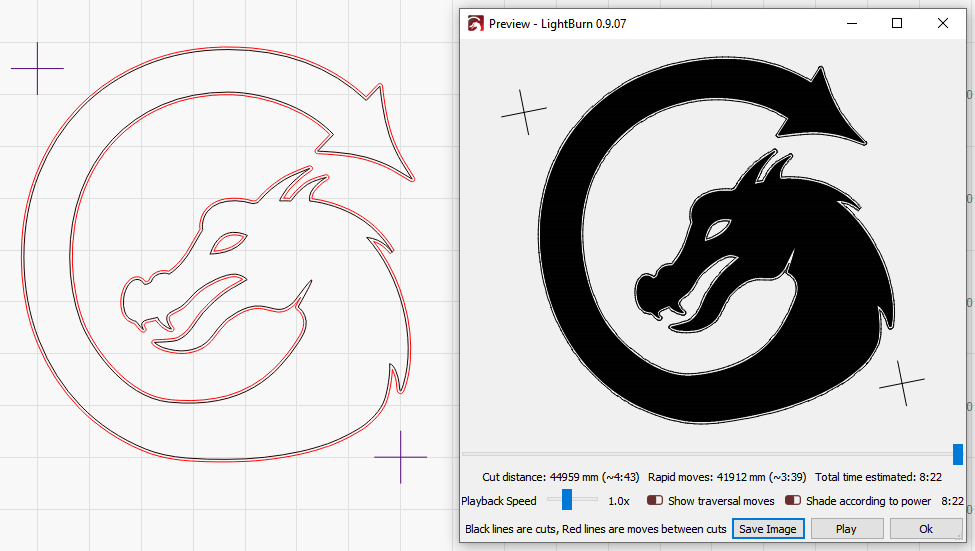
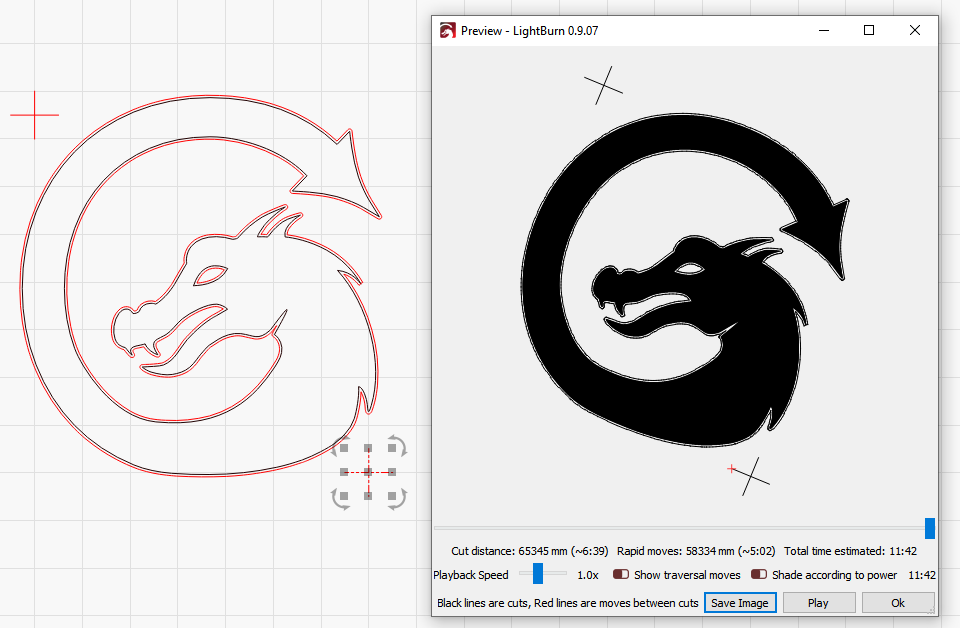
Print and Cut update

diff --git a/PrintAndCut.md b/PrintAndCut.md
@@ -62,7 +62,7 @@ If you preview at this point, the orientation of the preview should match that o
 
 ![AlignedPreview](img/PrintAndCut-AlignedPreview.png)
 
-In the above image, you can see the preview image is rotated slightly counter-clockwise.
+In the above image, you can see the preview image is rotated slightly clockwise, matching the orientation of the printed image in the laser.
 
 
 
